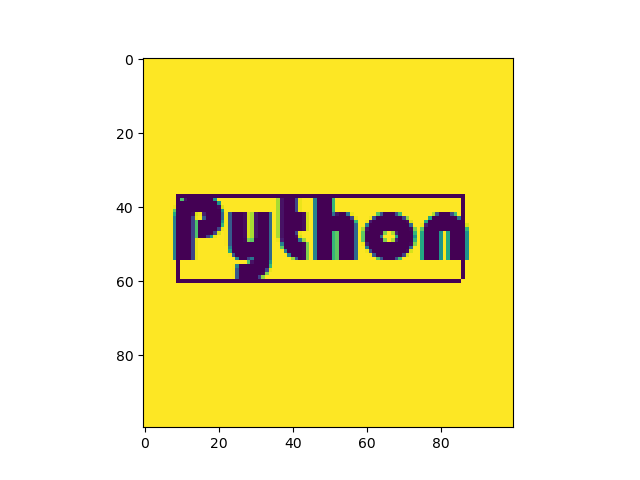
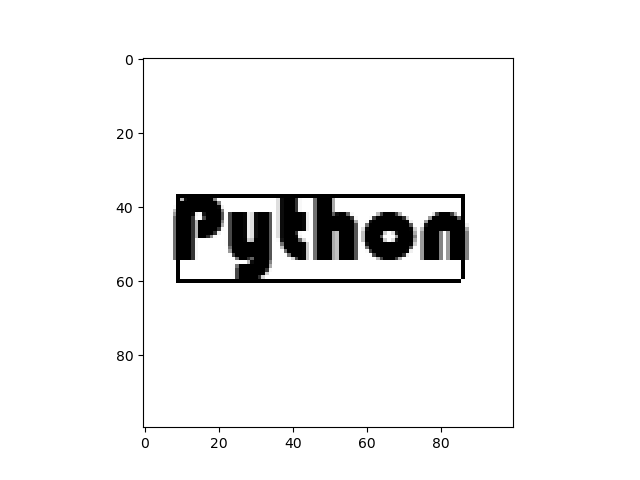
S change -> grayscale result without spacing

diff --git a/P3/Text_Detection.py b/P3/Text_Detection.py
@@ -3,7 +3,6 @@ import matplotlib.pyplot as plt
 from skimage import io, color, img_as_float
 
 filepath = 'picture\\Q3.png'
-# image = io.imread(filepath, as_gray=True)
 image = io.imread(filepath)
 
 image_bw = img_as_float(image)
@@ -20,17 +19,16 @@ for r in range(100):
             if c not in cols:
                 cols.append(c)
 
-row_x1 = min(rows) - 5
-row_x2 = max(rows) + 5
-col_y1 = min(cols) - 5
-col_y2 = max(cols) + 5
+row_x1 = min(rows)
+row_x2 = max(rows)
+col_y1 = min(cols)
+col_y2 = max(cols)
 
 image_bw[row_x1, col_y1:col_y2] = 0
 image_bw[row_x2, col_y1:col_y2] = 0
 image_bw[row_x1:row_x2, col_y1] = 0
 image_bw[row_x1:row_x2, col_y2] = 0
 
-plt.imshow(image_bw)
-
-plt.savefig(r'picture/result2.png')
+plt.imshow(image_bw, cmap=plt.cm.gray)
+plt.savefig(r'picture/result1.png')
 gc.collect()
